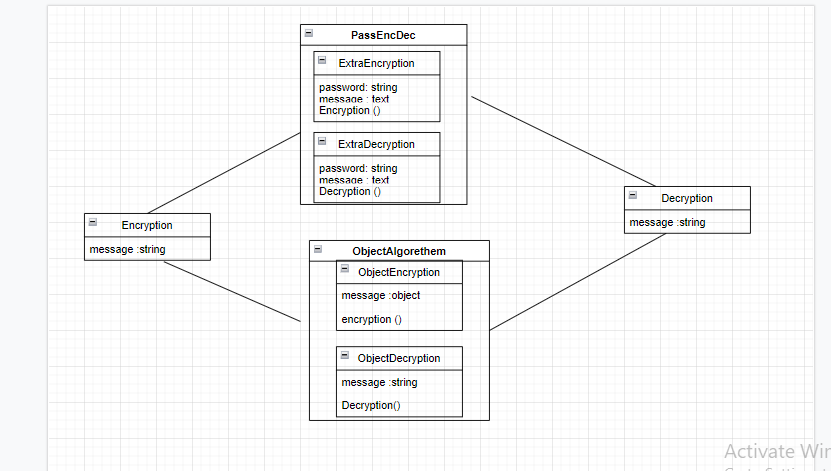
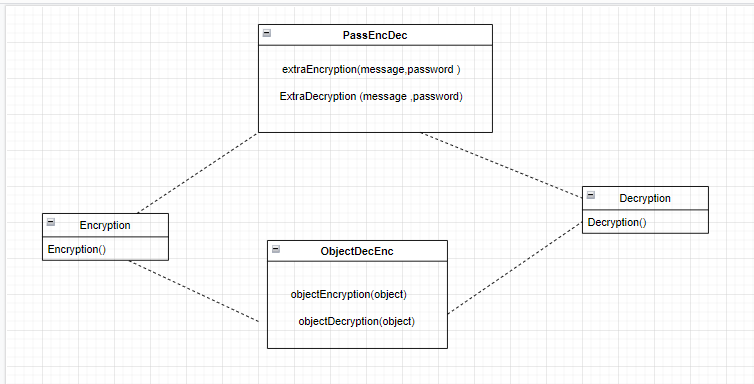
add refliction

diff --git a/test-App/src/index.js b/test-App/src/index.js
@@ -1,7 +1,7 @@
 import { Encryption} from 'dec-enc-lib/Encryption.js'
 import {Decryption} from 'dec-enc-lib/Decryption.js'
 import {ExtraEncryption,ExtraDecryption} from 'dec-enc-lib/PassEncDec.js'
- import {objectEncryption,objectDecryption} from 'dec-enc-lib/ObjectEncDec.js'
+// import {objectEncryption,objectDecryption} from 'dec-enc-lib/ObjectEncDec.js'
 
  import readline from 'readline'
  var message =' منار'
@@ -14,19 +14,19 @@ import {ExtraEncryption,ExtraDecryption} from 'dec-enc-lib/PassEncDec.js'
              console.log(Decryption(message),'    :    the message efter decryption')
              console.log('')
 
- let encryptionStr =''
-const testObject = {
-    name :'manar',
-    age :34,
-    children : ['jory','horeya','shams']
-}
+//  let encryptionStr =''
+// const testObject = {
+//     name :'manar',
+//     age :34,
+//     children : ['jory','horeya','shams']
+// }
 
-console.log(' the object :   ', testObject)
- encryptionStr= objectEncryption(testObject)
- console.log('encrypted text ___________________')
- console.log(encryptionStr ,)
- console.log('decrypted text ___________________')
- console.log(objectDecryption(encryptionStr))
+// console.log(' the object :   ', testObject)
+//  encryptionStr= objectEncryption(testObject)
+//  console.log('encrypted text ___________________')
+//  console.log(encryptionStr ,)
+//  console.log('decrypted text ___________________')
+//  console.log(objectDecryption(encryptionStr))
 
     const rLine = readline.createInterface({
         input: process.stdin,

diff --git a/release.md b/release.md
@@ -92,10 +92,10 @@ Beskriv hur du kommit fram till om din kod fungerar.
 Denna modul tar en krypterad text som ett argument och ändrar karaktärer till ursprungliga karaktärer enligt ersättningsmatrisen och unicode table
 #### PassEncDec
 denna modul har två functioner 
-- ExtraEncryption: Den tar text som ett argument och använder Encception-modulen för att ändra karaktärer till andra karaktärerenligt ersättningsmatrisen och Unicode-tabellen. Lägg till extra slumpmässiga karaktärer enligt lösenord
+- ExtraEncryption: Den tar text som ett argument och använder Encreption-modulen för att ändra karaktärer till andra karaktärerenligt ersättningsmatrisen och Unicode-tabellen. Lägg till extra slumpmässiga karaktärer enligt lösenord
 - ExtraDecryption : Denna modul tar en krypterad text som ett argument och tar bort alla slumpmässiga tecken enligt lösenordet och ändrar sedan karaktärer till de ursprungliga karaktärer genom avkodaren
 
-#### ObjectAlgorathem 
+#### ObjectEncDec
 denna modul har två functioner 
 - ObjectEncryption: Denna enhet tar (objekt) som ett argument och använder (json .stringfy) för att konvertera det till text och använder sedan (Encryption -module) för att hämta krypterad text.
 - objectDecryption :Denna enhet tar (krypterad text ) som ett argument och använder (decryption -module) för att hämta ursprungliga karaktärer och använder sedan (Json.parse) för ätt konvertera det till (object).
@@ -113,16 +113,15 @@ npm test
 ```
 | Vad testas      | input | output | utfall PASS/FAIL | 
 | --------- | --------- | ------ | ------- |
-|      Encryption/Decryption function      | input = ('')or(undefined)or(notstring)or(null)  )  |  Error       |    pass     |
-|     ExtraEncryption/ ExtraDecryption function      |  input(message or password) = ('')or(undefined)or(notstring)or(null)  )   |  Error       |    pass     |
-|      objectEncryption    | input = not object  |  Error  (invaild argumrnt )     |    pass     |
-|      objectEncryption    | input = ('')or(undefined)or(notstring)or(null)  )  |  Error  (invaild argumrnt )     |    pass     |
+|      (Encryption/Decryption function)  error when insert invaild value for the message     | input = ('')or(undefined)or(notstring)or(null)  )  |  Error       |    pass     |
+|    ( ExtraEncryption/ ExtraDecryption function )error when insert invaild value for the message or the password    |  input(message or password) = ('')or(undefined)or(notstring)or(null)  )   |  Error       |    pass     |
+|     ( objectEncryption )  error when insert value not of type object | input = not object  |  Error  (invaild argumrnt )     |    pass     |
+|      (objectDecryption) error when insert invaild value for the message     | input = ('')or(undefined)or(notstring)or(null)  )  |  Error  (invaild argumrnt )     |    pass     |
 #### test-app
 | Vad testas      | input | output | utfall PASS/FAIL | image|
 | --------- | --------- | ------ | ------- |-----|
 |     skriv in text koda och avkoda den     | "My name is manar"  |  My name is manr        |    pass     |![testFall1](image/testFall1.PNG "testfall1")|
-|    skriv in text och password koda och avkoda den      |  message = 'hello' , password =' key'   | hello     |    pass     |
-![testFall2](image/testfall2.PNG "testfall2")|
+|    skriv in text och password koda och avkoda den      |  message = 'hello' , password =' key'   | hello     |    pass     |![testFall2](image/testfall2.PNG "testfall2")|
 |      skriv in object koda och avkoda den    | { name : 'manar' , age : 34 , children : ['jory','horeya','shams']}  |   { name : 'manar' , age : 34 , children : ['jory','horeya','shams']}    |    pass     | ![testFall3](image/testFall3.PNG "testfall3")|
 
 ## Kodkvalitetskrav
@@ -146,8 +145,8 @@ npm test
 | Metodnamn och förklaring  | Reflektion                                   |
 | -------------------  | ---------------------------------------------|
 |       shuffelMatrix /Encryption module              |       **small**  10 line code  -- **mondic function** there is just one argument -- **Do one thing** it shuffle the array  - **have no side effect** becuse it shffle the copy of the orginal array- but it dose not follow the rule **Do not repeat your self** because i write it  in decryption  module and in Encryption module |                                        |
-|converToHex /encryption module  | ** use descriptive names** - **mondic function** -- **do one thing** |
-| countStringValue / used in encryption and passEncDec module  | it dose not follow the rule **Do not repeat your self** because i write it  in Encryption  module and in passEncDec module -   ** small**  8 line code  |
+|converToHex /encryption module  | follow the rules **use descriptive names** - **mondic function** -- **do one thing** |
+| countStringValue / used in encryption and passEncDec module  | it dose not follow the rule **Do not repeat your self** because i write it  in Encryption  module and in passEncDec module -   **small**  8 line code  |
 | Decryption  function in Decryption module |  **mondic function** there is just one argument  - **prefer Exptions to returning Error code** |
 | Encryption function in Encryption module | **mondic function** there is just one argument  - **prefer Exptions to returning Error code** - **use descriptive names** |
 |divideMessage /in Decryption module  |  **mondic function** - **use descriptive names** - **do one thing** it divide the message | 
@@ -159,7 +158,7 @@ Reflektera över uppgiften utifrån ett kodkvalitetsperspektiv. Använd begrepp 
 Problemet är att alla modulerna gör samma sak. De krypterar och dekrypterar texten eller objektet, så det var svårt att hitta namnet med en meningsfull skillnad. Jag använde  variabelnamnen som är (Pronuncable) (message, password, index, Encrption, decryption).
 Alla funktioner i projektet (small) och de flesta av dem (Monadic), förutom krypteringsfunktioner med lösenord de är (Dyadic) och detta överensstämmer med principen (Reducing the number of arguments) .
 Problemet är att det finns några vanliga funktioner mellan moduler(countStringValue -shuffelMatrix) som jag har skrivit två gonger  , och detta  motsatta principen (do not repeate your  self). Jag borde ha  lagt dem i en separat module , men jag gjorde ett misstag och upprepade dem . Jag kommer att modifiera projektet i framtiden och fixa det.
-Objektkodning behöver mer testning, men andra funktioner är väl testade. Jag testade det på (arabiska - engelska - slumpmässiga tecken) och det fungerar bra. 
-- men med arabiska tecken är result felaktigt skriven men när jag testade den i webbläsarkonsolen fungerade det bra  . jag tror att problemet i vs console
-![test](image/bug1.PNG "arbiska bokstaver")
+(Objekt encryption) behöver mer testning, men andra funktioner är väl testade. Jag testade dem  på (arabiska - engelska - slumpmässiga tecken) och det fungerar bra. 
+- men med arabiska tecken är result felaktigt skriven( Samma bokstäver men separata och inte sammankopplade)   . jag tror att problemet i vs console
+![test](image/bug22.PNG "arbiska bokstaver")
 ![test](image/bug2.PNG "arbiska bokstaver")
